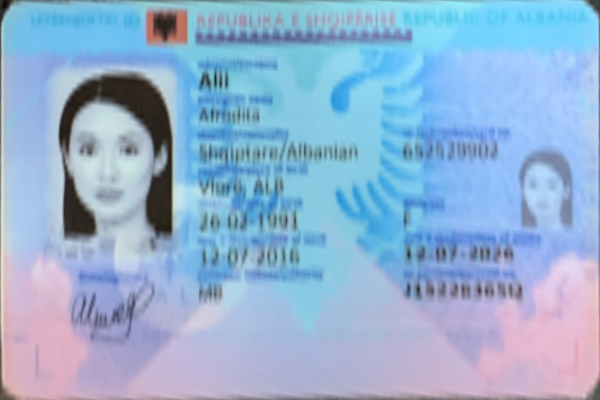
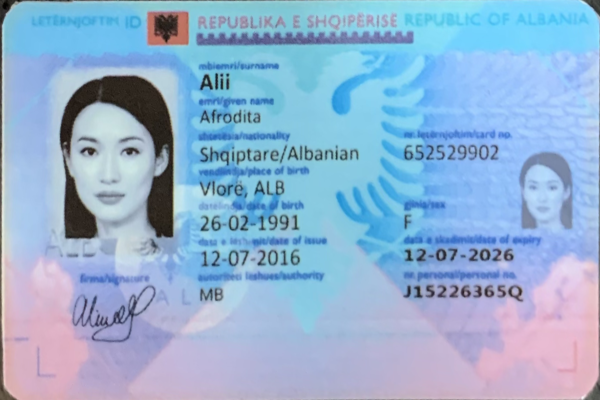
Reduce matching resolution to 300x200

diff --git a/training/detection.py b/training/detection.py
@@ -37,6 +37,7 @@ if TYPE_CHECKING:
 ROOT = Path(__file__).resolve().parent
 REFINEMENT_SIZE = (600, 400)  # OpenCV sizes are (width, height).
 CARD_SIZE = (600, 400)
+MATCH_SIZE = (300, 200)
 DEFAULT_MATCH_THRESHOLD = 0.8
 IMAGE_EXTENSIONS = {'.jpg', '.jpeg', '.png', '.bmp', '.tif', '.tiff', '.webp'}
 
@@ -116,8 +117,13 @@ def remove_face(model: 'YOLO', card: np.ndarray):
     return apply_mask(card, mask)
 
 
+def load_template(path: str | Path, matching_size: tuple[int, int] = MATCH_SIZE) -> np.ndarray:
+    """Normalize a pre-masked RGB reference, then downsample as in matching."""
+    return cv2.resize(load_image(path, CARD_SIZE), matching_size, interpolation=cv2.INTER_AREA)
+
+
 def load_templates(
-    template_dir: str | Path, card_size: tuple[int, int] = CARD_SIZE,
+    template_dir: str | Path, card_size: tuple[int, int] = MATCH_SIZE,
 ) -> list[np.ndarray]:
     """Load pre-masked templates as RGB and resize for comparison.
 
@@ -126,7 +132,7 @@ def load_templates(
     """
     paths = (Path(template_dir) / name for name in os.listdir(template_dir))
     return [
-        load_image(path, card_size)
+        load_template(path, card_size)
         for path in paths
         if path.is_file() and path.suffix.lower() in IMAGE_EXTENSIONS
     ]
@@ -174,16 +180,16 @@ def analyze_card(
 ) -> DetectionResult:
     """Detect, refine and match a card from a full-resolution RGB image.
 
-    Templates use 600x400 pixels. Border refinement uses a 600x400 temporary
+    Templates use 300x200 pixels. Border refinement uses a 600x400 temporary
     crop, but final pixels come directly from the input image.
     Retains model defaults, first-OBB selection and matching threshold.
     Model/configuration errors propagate instead of becoming normal outcomes.
     """
     if any(
-        template.shape != (CARD_SIZE[1], CARD_SIZE[0], 3)
+        template.shape != (MATCH_SIZE[1], MATCH_SIZE[0], 3)
         for template in templates
     ):
-        raise ValueError('Expected RGB templates sized 600x400 (width x height).')
+        raise ValueError('Expected RGB templates sized 300x200 (width x height).')
     started = perf_counter()
     results = detect_model(image)
     corners = _first_corners(results)
@@ -216,7 +222,8 @@ def analyze_card(
     except (ValueError, np.linalg.LinAlgError):
         return finish(DetectionStatus.EXTRACTION_FAILED, failure_stage='refinement')
     masked_card = remove_face(face_model, card)
-    label, score = classify_with_score(masked_card, templates, threshold)
+    matching_card = cv2.resize(masked_card, MATCH_SIZE, interpolation=cv2.INTER_AREA)
+    label, score = classify_with_score(matching_card, templates, threshold)
     return finish(
         DetectionStatus.MATCHED if label is not None else DetectionStatus.UNMATCHED,
         card=card, template_index=label, match_score=score,
@@ -226,8 +233,8 @@ def analyze_card(
 
 def main(argv=None):
     parser = argparse.ArgumentParser(description='Detect and refine a card with existing model weights.')
-    parser.add_argument('--image', type=Path, default=ROOT / 'test_images' / 'image553.png')
-    parser.add_argument('--output', type=Path, default=ROOT / 'detected_card_v2.png')
+    parser.add_argument('--image', type=Path, default=ROOT / 'test_images' / 'image6.png')
+    parser.add_argument('--output', type=Path, default=ROOT / 'detected_card.png')
     args = parser.parse_args(argv)
     from ultralytics import YOLO
 

diff --git a/training/test_original_extraction.py b/training/test_original_extraction.py
@@ -52,7 +52,7 @@ class OriginalExtractionTests(unittest.TestCase):
         original = self.image.copy()
         model = self.model()
         with patch.object(detection, 'document_corners', return_value=self.refinement_points()) as refine:
-            result = detection.analyze_card(model, self.image, [expected], self.face)
+            result = detection.analyze_card(model, self.image, [cv2.resize(expected, detection.MATCH_SIZE, interpolation=cv2.INTER_AREA)], self.face)
         model.assert_called_once_with(self.image)
         self.assertEqual(refine.call_args.args[0].shape, (400, 600, 3))
         np.testing.assert_allclose(result.refined_corners, self.refined, atol=1e-4)
@@ -63,6 +63,18 @@ class OriginalExtractionTests(unittest.TestCase):
         self.assertEqual(result.status, detection.DetectionStatus.MATCHED)
         self.assertEqual(result.template_index, 0)
         self.assertAlmostEqual(result.match_score, 1, places=5)
+
+    def test_matching_downsamples_after_masking_without_changing_display_card(self):
+        masked = np.zeros((400, 600, 3), dtype=np.uint8)
+        masked[75:275, 120:420] = 180
+        with patch.object(detection, 'document_corners', return_value=self.refinement_points()), \
+             patch.object(detection, 'remove_face', return_value=masked) as mask, \
+             patch.object(detection, 'classify_with_score', return_value=(None, 0.7)) as classify:
+            result = detection.analyze_card(self.model(), self.image, [], self.face)
+        self.assertIs(mask.call_args.args[1], result.card)
+        self.assertEqual(result.card.shape, (400, 600, 3))
+        np.testing.assert_array_equal(classify.call_args.args[0],
+                                      cv2.resize(masked, (300, 200), interpolation=cv2.INTER_AREA))
 
     def test_refinement_failure_does_not_fall_back_to_yolo_crop(self):
         with patch.object(detection, 'document_corners', return_value=None):
@@ -85,7 +97,7 @@ class OriginalExtractionTests(unittest.TestCase):
                 self.assertIsNone(result.card)
 
     def test_incorrect_template_size_is_a_configuration_error(self):
-        with self.assertRaisesRegex(ValueError, '600x400'):
+        with self.assertRaisesRegex(ValueError, '300x200'):
             detection.analyze_card(self.model(), self.image,
                                   [np.zeros((320, 640, 3), dtype=np.uint8)], self.face)
 

diff --git a/backend/app/inference/pipeline.py b/backend/app/inference/pipeline.py
@@ -7,8 +7,7 @@ from typing import Protocol
 
 import numpy as np
 
-from training.detection import CARD_SIZE, IMAGE_EXTENSIONS, DetectionResult, analyze_card
-from training.utils.processing import load_image
+from training.detection import IMAGE_EXTENSIONS, DetectionResult, analyze_card, load_template
 
 from ..config import Settings
 
@@ -40,7 +39,7 @@ class IDCardPipeline:
         if not paths:
             raise ValueError('At least one pre-masked reference template is required')
         self.templates = [TemplateIdentity(path.name, path.stem) for path in paths]
-        self._images = [load_image(path, CARD_SIZE) for path in paths]
+        self._images = [load_template(path) for path in paths]
 
         from ultralytics import YOLO
 

diff --git a/training/test_detection.py b/training/test_detection.py
@@ -69,7 +69,8 @@ class DetectionTests(unittest.TestCase):
         face_model = Mock()
         face_model.predict.return_value = [SimpleNamespace(boxes=[])]
         card = detection.cv2.resize(self.image, detection.CARD_SIZE)
-        templates = [np.flip(card, axis=1).copy(), card.copy()]
+        matching_card = detection.cv2.resize(card, detection.MATCH_SIZE, interpolation=detection.cv2.INTER_AREA)
+        templates = [np.flip(matching_card, axis=1).copy(), matching_card.copy()]
         for threshold, matched in ((0.8, True), (1.0, False)):
             with self.subTest(threshold=threshold), patch.object(
                 detection, 'document_corners', return_value=np.array([[0, 0], [639, 0], [639, 319], [0, 319]]),

diff --git a/backend/tests/test_pipeline.py b/backend/tests/test_pipeline.py
@@ -29,7 +29,7 @@ def test_template_identity_stays_associated_with_loaded_pixels(tmp_path):
         loader.return_value.eval.side_effect = [detector, face]
         pipeline = IDCardPipeline(Settings(detector_path=model, face_model_path=model, template_dir=tmp_path))
     assert [template.id for template in pipeline.templates] == ['Template B.png', 'Template A.png']
-    assert all(image.shape == (400, 600, 3) for image in pipeline._images)
+    assert all(image.shape == (200, 300, 3) for image in pipeline._images)
     assert pipeline._images[0][0, 0].tolist() == [30, 80, 120]
     detector.predict.assert_not_called()
     face.predict.assert_not_called()

diff --git a/training/README.md b/training/README.md
@@ -164,8 +164,9 @@ All matching entry points default to `DEFAULT_MATCH_THRESHOLD = 0.8`.
 `classify(...)` retains its index-only return;
 `classify_with_score(...)` exposes the accepted index and best score together.
 
-Templates are loaded as RGB and resized to `CARD_SIZE`; loading does not run the
-face detector. `load_templates(template_dir, card_size=CARD_SIZE)` no longer
+Templates are loaded as RGB, normalized to `CARD_SIZE`, then downsampled to
+`MATCH_SIZE` with OpenCV INTER_AREA once at loading. Loading does not run the
+face detector. `load_templates(template_dir, card_size=MATCH_SIZE)` no longer
 takes a face model. The face model is still required to mask the extracted input
 card before comparison. Use the same black-mask convention for reference images.
 When saving RGB arrays with OpenCV, convert them with
@@ -186,14 +187,17 @@ Full-resolution RGB input â†’ YOLO OBB â†’ expanded temporary perspect
 Sizes are `(width, height)`: the final RGB array has shape `(400, 600, 3)`.
 `REFINEMENT_SIZE = (600, 400)` sets the edge/Hough working scale;
 `CARD_SIZE = (600, 400)` controls extraction and reference normalization.
+`MATCH_SIZE = (300, 200)` controls matching only. The extracted card is face-masked
+before downsampling; the returned display card remains unmasked at 600 x 400.
+The 0.8 threshold is unchanged; validation on incorrect/nonmatching cards remains future work.
 The detector still performs its own internal input preparation. Its settings,
 first-OBB choice, RGB convention, 5% crop expansion, and strict `0.8` matching
 threshold are unchanged. No models or template image files are rewritten.
 
 ```python
-from training.detection import CARD_SIZE, analyze_card, load_templates, load_image
+from training.detection import MATCH_SIZE, analyze_card, load_templates, load_image
 
-templates = load_templates(ROOT / 'template_samples', card_size=CARD_SIZE)
+templates = load_templates(ROOT / 'template_samples', card_size=MATCH_SIZE)
 image = load_image(ROOT / 'test_images/image6.png')  # No whole-photo resize.
 result = analyze_card(detector, image, templates, face_detector)
 ```

diff --git a/README.md b/README.md
@@ -72,10 +72,12 @@ Full-resolution RGB input -> first YOLO OBB -> expanded temporary crop
 -> resize temporary crop to 600 x 400 -> edge/Hough border refinement
 -> map refined corners back to the original image
 -> warp original pixels directly to 600 x 400
--> face masking -> normalized template correlation -> strict score > 0.8
+-> face masking -> downsample to 300 x 200 -> normalized template correlation -> strict score > 0.8
 ```
 
-Reference templates are normalized to 600 x 400 as well. Sizes are width by
+Reference templates are normalized to 600 x 400, then downsampled once to
+300 x 200 with INTER_AREA. The masked query uses the same downsampling.
+The returned card stays 600 x 400. Sizes are width by
 height. YOLO performs its own internal input preparation; the API no longer
 resizes the whole uploaded image before detection.
 
@@ -284,9 +286,11 @@ samples produced these local CPU smoke-test results:
 
 | Sample | Similarity | Result at `score > 0.8` |
 | --- | --- | --- |
-| `image553.png` | 0.812792 | Matched Template 5 |
-| `image6.png` | 0.855691 | Matched Template 0 |
+| `image553.png` | 0.836657 | Matched Template 5 |
+| `image6.png` | 0.867860 | Matched Template 0 |
 
+These results use 300 x 200 matching. The 0.8 threshold is unchanged; validation
+on incorrect/nonmatching cards is deferred.
 These are two sample observations, not an accuracy evaluation or a latency
 benchmark. Border refinement can still select an inner line and clip content;
 the coordinate mapping preserves the selected boundary rather than correcting it.
